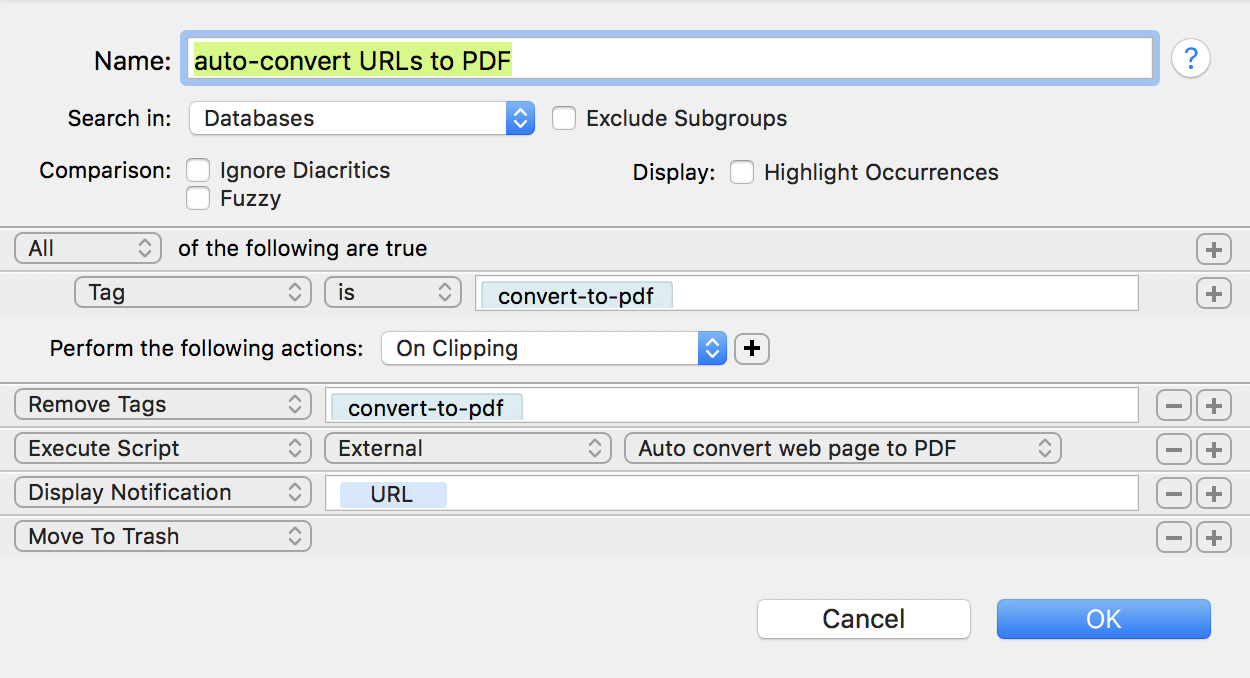
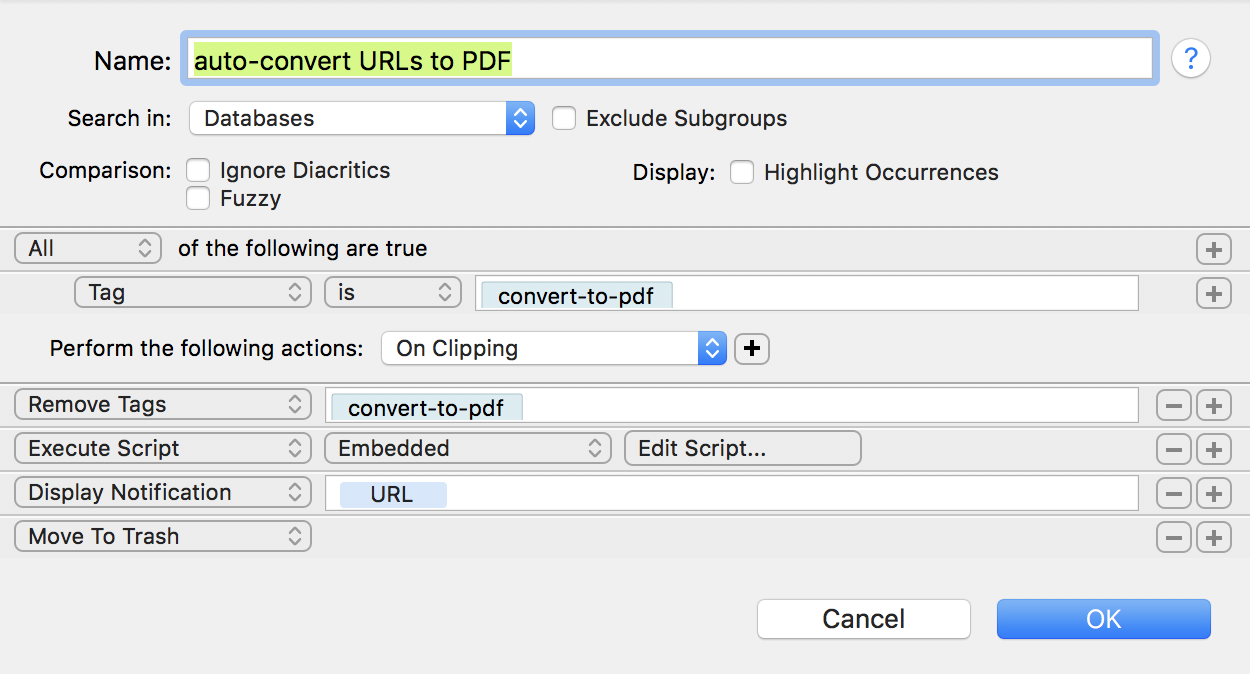
Update instructions and screen shot

diff --git a/auto-convert-web-page-to-PDF/README.md b/auto-convert-web-page-to-PDF/README.md
@@ -1,14 +1,14 @@
 Auto convert web page to PDF
 ============================
 
-I find that DEVONthink is one of the best tools for saving snapshots of web pages as full-page PDF files, because its embedded web browser is interactive and lets you log into websites that use sessions.  Once logged in, you can save pages that would otherwise be inaccessible.  However, I'm not always browsing the web from within DEVONthink, and if I want to save a page encountered while using a normal web browser like Safari, I need to send it to DEVONthink and tell it to save it as a full-page PDF.  This could be done using the standard clipper extension or bookmarklet provided with DEVONthink, but there is a catch: some web pages are generated dynamically and sent incrementally, with content not revealed until you scroll further down on the page. DEVONthink's default capture method will not always get the full page in those cases.
+I find that DEVONthink is one of the best tools for saving snapshots of web pages as full-page PDF files, because its embedded web browser is interactive and lets you log into websites that use sessions.  Once logged in, you can save pages that would otherwise be inaccessible; moreover, the login sessions persist just as they do in a regular browser, so that you don't always have to log back in every time.
+
+However, I'm not always browsing the web from within DEVONthink, and if I want to save a page encountered while using a normal web browser like Safari, I need to send it to DEVONthink and tell it to save it as a full-page PDF.  This could be done using the standard clipper extension or bookmarklet provided with DEVONthink, but there is a catch: some web pages are generated dynamically and sent incrementally, with content not revealed until you scroll further down on the page. DEVONthink's default capture method will not always get the full page in those cases.
 
 In general, capturing dynamically-generated pages is a hopeless difficulty task.  However, for my purposes, I've solved this for most cases using a combination of mechanisms:
 
 1. A Smart Rule in DEVONthink that is triggered when a new web page bookmark is created if the bookmark contains a certain tag; this Smart Rule then runs an AppleScript program to open the page, scroll down in it, and convert the resulting window contents to PDF.
 2. A custom bookmarklet that can be used from Safari that, when invoked, sends a URL to DEVONthink with the required tag.
-
-The AppleScript is contained in this directory. To use it as an embedded script from a DEVONthink Smart Rule, you need to copy the script file to your `~/Library/Application Scripts/com.devon-technologies.think3/Smart Rules` directory.
 
 The following image shows the configuration of my Smart Rule in DEVONthink:
 
@@ -16,9 +16,11 @@ The following image shows the configuration of my Smart Rule in DEVONthink:
 <img width="80%" src=".graphics/auto-convert-smart-rule.png">
 </p>
 
+The second action of this rule is to execute an embedded script. The script in question is contained in this directory in the file `Auto convert web page to PDF.applescript`. To use it with the Smart Rule above, open the AppleScript file in a text editor, copy the entire file contents, and paste the contents in as the embedded script in the Smart Rule.
+
 Note that the rule removes the tag _before_ creating the PDF, because the PDF file will inherit any tags on the bookmark when DEVONthink creates it, and you don't want the tag on the resulting PDF file.  The rule also moves the original bookmark to the trash because for my purposes, it's no longer needed after the PDF conversion is done.
 
-The following is the code for the bookmarklet:
+Finally, the following is the code for the bookmarklet:
 
 ```
 javascript:window.location='x-devonthink://createBookmark?title='+encodeURIComponent(document.title)+'&location='+encodeURIComponent(window.location)+'&referrer='+encodeURIComponent(document.referrer)+'&tags=convert-to-pdf';
